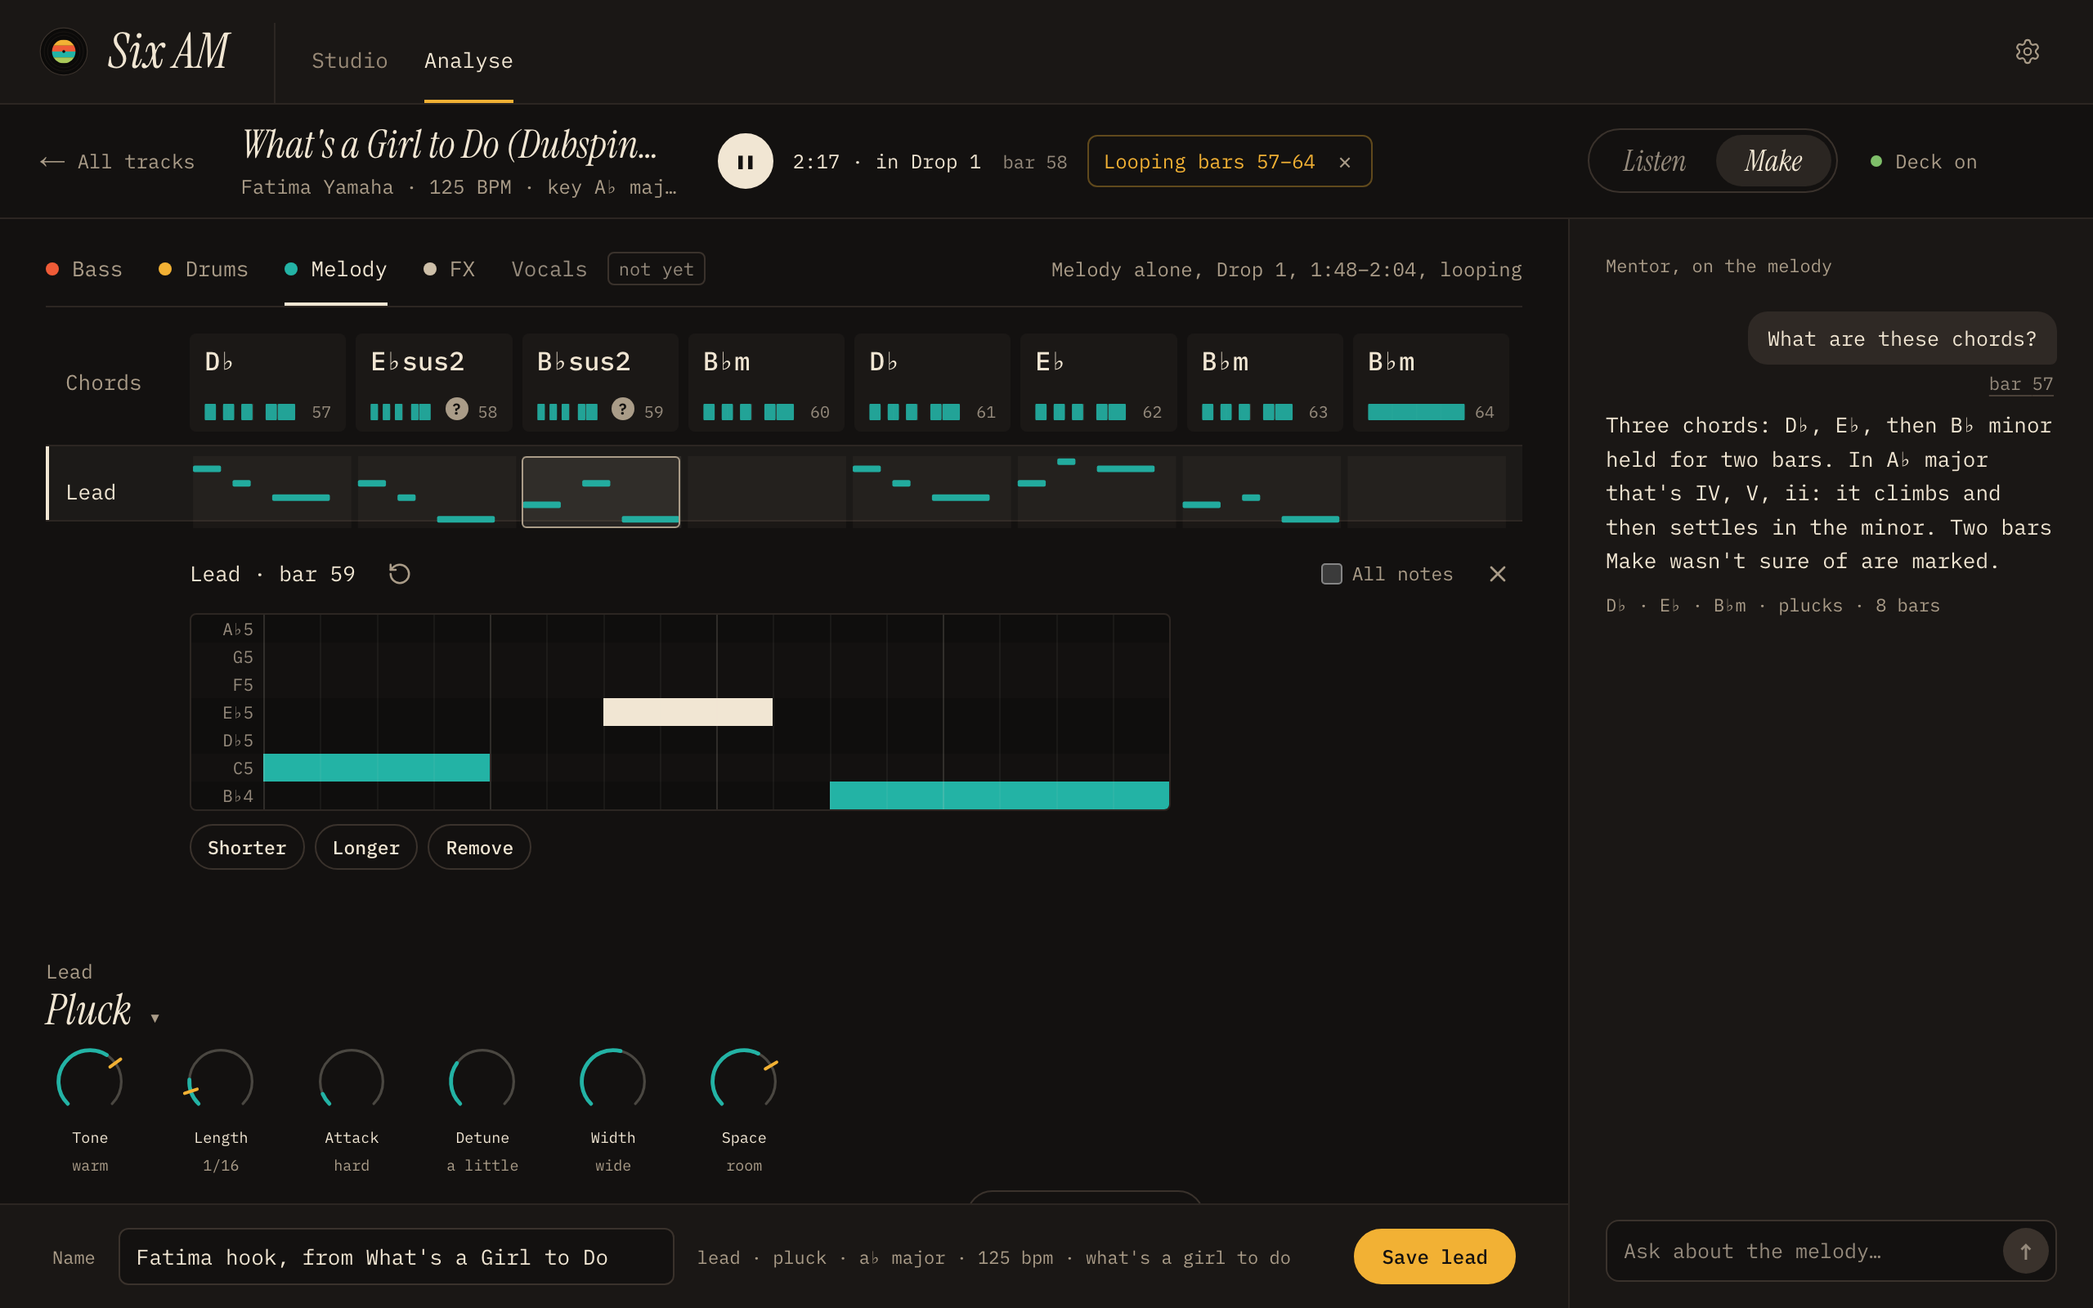
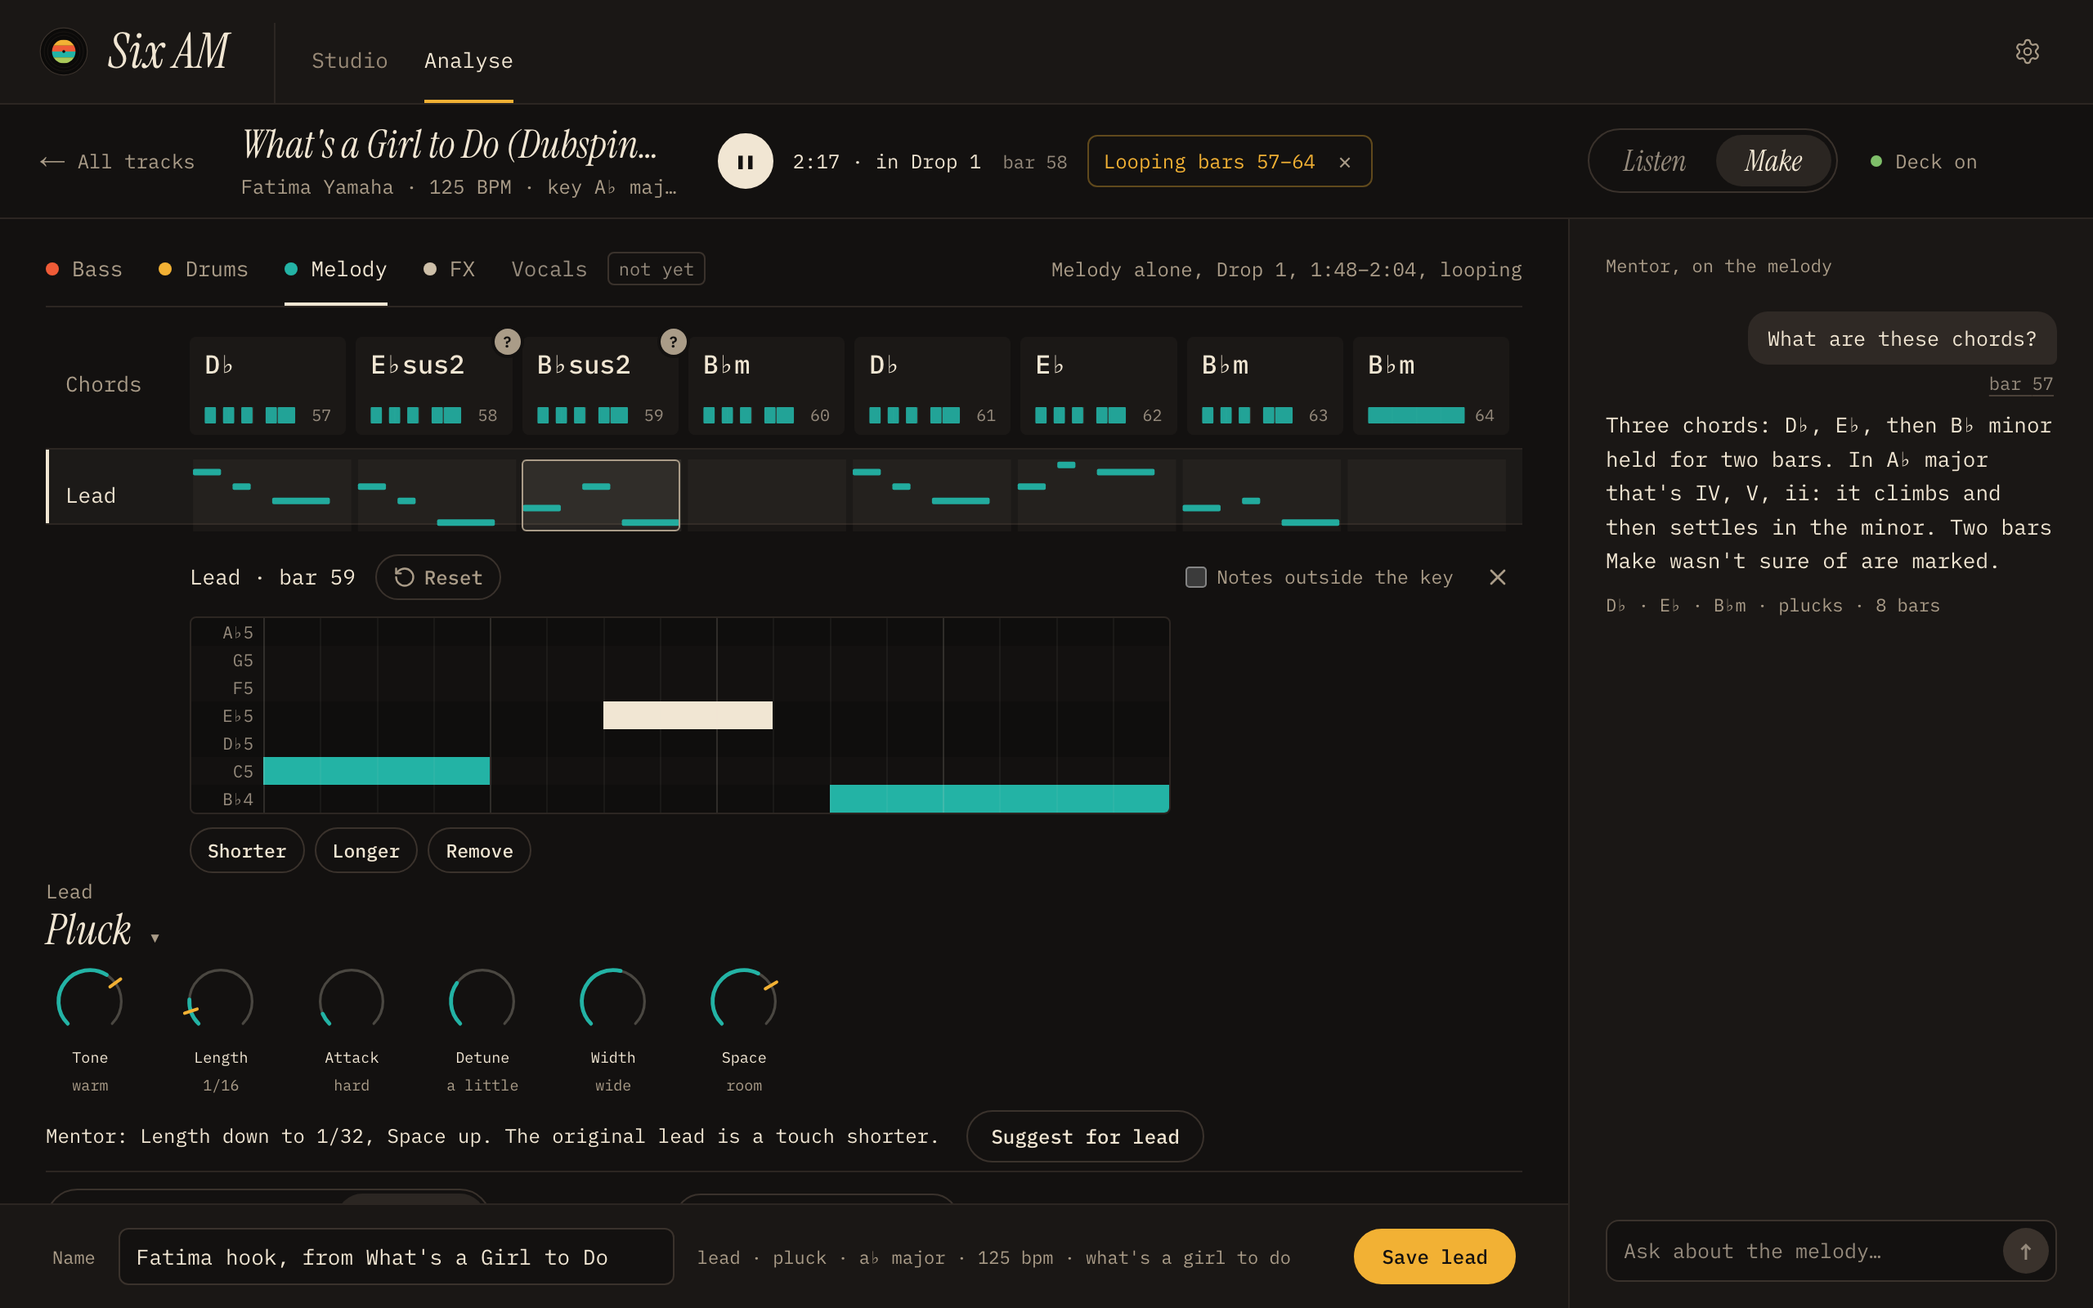
07 Six AM Phase 6: chords round 5, labels back

diff --git a/apps/07-six-am/src/app/dev/chords-r4/ear.tsx b/apps/07-six-am/src/app/dev/chords-r4/ear.tsx
@@ -1,11 +1,12 @@
 "use client";
 
+// Round 5 (in r4): labels that say what things are are back, sentences on how to operate stay out.
 // Round 4 · Ear, simplified until it explains itself (owner on the canvas: a screen that needs "tap a bar
 // to…" isn't intuitive enough). The panel is never empty: the first bar Make isn't sure of is open (else
 // bar 1). Cards work like a GarageBand chord strip: tap = hear it in the loop and use it; tap another to
 // change your mind. The track is a reference button, not a choice. Words moved to aria-labels/tooltips.
 import { useEffect, useState } from "react";
-import { ArrowLeft, AudioWaveform, Check, Keyboard, Pause, Play, RotateCcw, X } from "lucide-react";
+import { ArrowLeft, AudioWaveform, Check, Pause, Piano, Play, RotateCcw, X } from "lucide-react";
 import { DUB, LOST, WORST, voicing, type Song } from "../chords-directions/data";
 import { Hits, LeadRoll, Shell, cx, s, useChords } from "../chords-directions/shared";
 import v from "../chords-directions/v.module.css";
@@ -39,14 +40,15 @@ export function Ear({ st }: { st: St }) {
   const [leadSel, setLeadSel] = useState<number | null>(st === "lead" ? 1 : null);
   useEffect(() => {
     if (!open) return;
-    const esc = (e: KeyboardEvent) => { if (e.key === "Escape") setOpen(null); };
+    const esc = (e: KeyboardEvent) => { if (e.key !== "Escape") return; if (open.kind === "lead") setOpen({ kind: "chord", bar: firstBar(song) }); else setKeys(false); };
     addEventListener("keydown", esc);
     return () => removeEventListener("keydown", esc);
-  }, [open]);
+  }, [open, song]);
 
-  const close = () => { setOpen(null); setKeys(false); setHear(null); setMore(false); setHit(null); };
+  // The chord panel is always open; the lead's × goes back to it.
+  const close = () => { setOpen({ kind: "chord", bar: firstBar(song) }); setKeys(false); setHear(null); setMore(false); setHit(null); };
   const openBar = (kind: "chord" | "lead", bar: number) => {
-    if (open && open.kind === kind && open.bar === bar) return close();
+    if (open && open.kind === kind && open.bar === bar) return kind === "lead" ? close() : undefined;
     setOpen({ kind, bar }); setKeys(false); setHear(null); setMore(false); setHit(null); setLeadSel(null);
   };
   const unsure = (i: number) => !!song.bars[i].doubt && !ch.isEdited(i);
@@ -58,10 +60,11 @@ export function Ear({ st }: { st: St }) {
         <span className={v.rowName}>Chords</span>
         <div className={r.tiles} data-many={song.bars.length > 8 ? "" : undefined}>
           {song.bars.map((_, i) => (
-            <button key={i} className={r.tile} aria-expanded={open?.kind === "chord" && open.bar === i}
+            <button key={i} className={r.tile} data-unsure={unsure(i) ? "" : undefined} aria-expanded={open?.kind === "chord" && open.bar === i}
               aria-label={`Bar ${song.from + i}: ${ch.nameOf(i)}${unsure(i) ? ", Make isn't sure" : ""}. Change chord`} onClick={() => openBar("chord", i)}>
               <span className={r.tileName}>{ch.nameOf(i)}</span>
-              <span className={r.tileFoot}><Hits hits={ch.hits[i]} />{unsure(i) && <span className={r.unsureMark} title="Make isn't sure of this bar" aria-hidden>?</span>}<small>{song.from + i}</small></span>
+              {unsure(i) && <span className={r.unsureMark} title="Make isn't sure of this bar" aria-hidden>?</span>}
+              <span className={r.tileFoot}><Hits hits={ch.hits[i]} /><small>{song.from + i}</small></span>
             </button>
           ))}
         </div>
@@ -73,7 +76,7 @@ export function Ear({ st }: { st: St }) {
             onNotes={(ns) => setLead((l) => l.map((x, b) => (b === open.bar ? ns : x)))}
             onReset={() => { setLead((l) => l.map((x, b) => (b === open.bar ? (song.lead ?? []).filter((n) => n.bar === b).map(({ at, len, midi }) => ({ at, len, midi })) : x))); setLeadSel(null); }} onClose={close} />
         ) : (
-          <ChordPanel song={song} ch={ch} i={open.bar} keys={keys} setKeys={setKeys} hear={hear} setHear={setHear} all={all} setAll={setAll} more={more} setMore={setMore} hit={hit} setHit={setHit} onClose={close} />
+          <ChordPanel song={song} ch={ch} i={open.bar} keys={keys} setKeys={setKeys} hear={hear} setHear={setHear} all={all} setAll={setAll} more={more} setMore={setMore} hit={hit} setHit={setHit} />
         )}
       </div>
     </Shell>
@@ -111,9 +114,9 @@ function IconBtn({ label, onClick, children, tip }: { label: string; onClick: ()
   return <button className={r.icon} onClick={onClick} aria-label={label} title={tip ?? label}>{children}</button>;
 }
 
-function ChordPanel({ song, ch, i, keys, setKeys, hear, setHear, all, setAll, more, setMore, hit, setHit, onClose }: {
+function ChordPanel({ song, ch, i, keys, setKeys, hear, setHear, all, setAll, more, setMore, hit, setHit }: {
   song: Song; ch: Ch; i: number; keys: boolean; setKeys: (b: boolean) => void; hear: string | null; setHear: (n: string | null) => void;
-  all: boolean; setAll: (b: boolean) => void; more: boolean; setMore: (b: boolean) => void; hit: number | null; setHit: (k: number | null) => void; onClose: () => void;
+  all: boolean; setAll: (b: boolean) => void; more: boolean; setMore: (b: boolean) => void; hit: number | null; setHit: (k: number | null) => void;
 }) {
   const b = song.bars[i], cur = ch.nameOf(i), notes = ch.notesOf(i), hits = ch.hits[i];
   const twins = song.bars.map((_, k) => k).filter((k) => k !== i && song.bars[k].read === b.read);
@@ -126,10 +129,14 @@ function ChordPanel({ song, ch, i, keys, setKeys, hear, setHear, all, setAll, mo
     const chosen = cur === n && !fromNotes, playing = hear === n, guess = n === b.read;
     return (
       <button key={n} className={r.choice} aria-pressed={chosen} data-playing={playing ? "" : undefined} onClick={() => choose(n)}
-        aria-label={`${n}${guess ? ", Make's guess" : ""}, ${flavour(n) || "a chord"}${chosen ? ", in Mine" : ""}. Hear it in the loop and use it`} title={guess ? "Make's guess" : undefined}>
-        <span className={r.choiceName}>{n}</span>
-        {guess && <i className={r.guessDot} aria-hidden />}
-        {chosen && <Check className={r.check} size={14} strokeWidth={2.5} aria-hidden />}
+        aria-label={`${n}${guess ? ", Make's guess" : ""}, ${flavour(n) || "a chord"}${chosen ? ", in Mine" : ""}. Hear it in the loop and use it`}>
+        <span className={r.glyph} aria-hidden>{playing ? <Pause size={13} /> : <Play size={13} />}</span>
+        <span className={r.choiceText}>
+          {guess && <small className={r.guessTag}>Make&apos;s guess</small>}
+          <span className={r.choiceName}>{n}</span>
+          <small>{flavour(n)}</small>
+        </span>
+        {chosen && <Check className={r.check} size={15} strokeWidth={2.5} aria-hidden />}
       </button>
     );
   };
@@ -137,10 +144,8 @@ function ChordPanel({ song, ch, i, keys, setKeys, hear, setHear, all, setAll, mo
     <div className={r.head}>
       {keys && <IconBtn label="Back to the chords" tip="Back" onClick={() => { setKeys(false); setHit(null); }}><ArrowLeft size={16} /></IconBtn>}
       <span className={r.where}>Bar {song.from + i}</span>
-      {keys && <b className={r.title}>{cur}</b>}
-      {keys && (fromNotes || ch.isEdited(i)) && <IconBtn label={`Back to Make's ${b.read}`} onClick={() => { ch.reset(i); setHit(null); }}><RotateCcw size={15} /></IconBtn>}
-      <span className={r.grow} />
-      <IconBtn label="Close" onClick={onClose}><X size={16} /></IconBtn>
+      {keys ? <b className={r.title}>{cur}</b> : <b className={r.ask}>Which one sounds like the track?</b>}
+      {keys && (fromNotes || ch.isEdited(i)) && <button className={r.reset} onClick={() => { ch.reset(i); setHit(null); }} aria-label={`Reset to Make's ${b.read}`} title={`Back to Make's ${b.read}`}><RotateCcw size={14} aria-hidden /> Reset</button>}
     </div>
   );
   if (keys) {
@@ -167,10 +172,10 @@ function ChordPanel({ song, ch, i, keys, setKeys, hear, setHear, all, setAll, mo
         <div className={r.choices} role="group" aria-label="Chords to try">{[...cands, ...extra].map(card)}</div>
       </div>
       <div className={r.tools}>
-        {twins.length > 0 && <button className={r.chip} aria-pressed={all} onClick={() => setAll(!all)} aria-label={`Change all ${twins.length + 1} ${b.read} bars together`} title={`All ${twins.length + 1} bars Make heard as ${b.read}`}>All {twins.length + 1} bars</button>}
+        {twins.length > 0 && <label className={r.check2} title={`Every bar Make heard as ${b.read} changes with this one`}><input type="checkbox" checked={all} onChange={(e) => setAll(e.target.checked)} /> {twins.length === 1 ? `Both ${b.read} bars` : `All ${twins.length + 1} ${b.read} bars`}</label>}
         <span className={r.grow} />
-        <button className={r.chip} aria-expanded={more} onClick={() => setMore(!more)} aria-label={more ? "Fewer chords" : "More chords that fit this song"}>{more ? "Less" : "More"}</button>
-        <button className={r.chip} onClick={() => setKeys(true)} aria-label="Build the chord on the keys"><Keyboard size={15} aria-hidden /> Keys</button>
+        <button className={r.chip} aria-expanded={more} onClick={() => setMore(!more)} aria-label={more ? "Fewer chords" : "More chords that fit this song"}>{more ? "Fewer chords" : "More chords"}</button>
+        <button className={r.chip} onClick={() => setKeys(true)} aria-label="Build the chord on a piano"><Piano size={15} aria-hidden /> Piano</button>
       </div>
     </section>
   );
@@ -193,9 +198,9 @@ function LeadPanel({ song, bar, notes, sel, onSel, onNotes, onReset, onClose }: 
     <section className={cx(r.panel, r.leadPanel)} aria-label={`Lead, bar ${song.from + bar}: place one note at a time`}>
       <div className={r.head}>
         <span className={r.where}>Lead · bar {song.from + bar}</span>
-        {edited && <IconBtn label="Back to Make's line" onClick={onReset}><RotateCcw size={15} /></IconBtn>}
+        {edited && <button className={r.reset} onClick={onReset} aria-label="Reset to Make's line" title="Back to Make's line"><RotateCcw size={14} aria-hidden /> Reset</button>}
         <span className={r.grow} />
-        <label className={r.quietSwitch} title="Show every note, not only the song's key"><input type="checkbox" checked={allNotes} onChange={(e) => setAllNotes(e.target.checked)} disabled={outside} /> All notes</label>
+        <label className={r.quietSwitch} title="Show the notes that aren't in the song's key too"><input type="checkbox" checked={allNotes} onChange={(e) => setAllNotes(e.target.checked)} disabled={outside} /> Notes outside the key</label>
         <IconBtn label="Close" onClick={onClose}><X size={16} /></IconBtn>
       </div>
       <LeadGrid notes={notes} rows={rows} flats={song.flats} sel={sel} onSel={onSel} onNotes={onNotes} tall={!allNotes} />

diff --git a/apps/07-six-am/src/app/dev/chords-r4/r.module.css b/apps/07-six-am/src/app/dev/chords-r4/r.module.css
@@ -209,3 +209,45 @@
 }
 /* break-ui: the "?" sits in the tile's foot beside the bar number, so it never covers a long name */
 .unsureMark { position: static; flex: none; width: 14px; height: 14px; font-size: 9.5px; }
+
+/* ── Round 5: labels that name things are back ─────────────────────────────────────────────── */
+.unsureMark { position: absolute; top: 5px; right: 5px; width: 15px; height: 15px; font-size: 9.5px; }
+.tile:has(.unsureMark) .tileName { padding-right: 15px; }
+.choice { height: 64px; gap: 10px; padding: 0 12px 0 10px; align-items: center; }
+.glyph { flex: none; width: 26px; height: 26px; border-radius: 50%; border: 1px solid var(--edge); display: grid; place-items: center; color: var(--ink); }
+.choice[data-playing] .glyph { background: var(--ink); color: var(--bg); border-color: var(--ink); }
+.choice[data-playing] { box-shadow: none; }
+.choiceText { display: flex; flex-direction: column; gap: 2px; min-width: 0; }
+.choiceText .choiceName { font-size: 17px; }
+.choiceText small { font-size: 11px; color: var(--muted); line-height: 1.25; }
+.guessTag { position: absolute; top: 6px; right: 9px; font-size: 10px; color: var(--muted); white-space: nowrap; }
+.choices { grid-template-columns: repeat(auto-fill, minmax(150px, 1fr)); }
+.track { height: 64px; }
+.check { right: 9px; bottom: 8px; }
+.reset { display: inline-flex; align-items: center; gap: 5px; min-height: 28px; padding: 0 10px; border: 1px solid var(--edge); border-radius: 99px; background: none; cursor: pointer; font: 500 12px var(--f-mono); color: var(--muted) !important; }
+@media (hover: hover) and (pointer: fine) { .reset:hover { color: var(--ink) !important; border-color: var(--muted); } }
+.check2 { display: inline-flex; align-items: center; gap: 8px; min-height: 30px; font-size: 12.5px; color: var(--ink); cursor: pointer; }
+.check2 input { accent-color: var(--teal); width: 16px; height: 16px; margin: 0; }
+/* the band fits the panel that is shown (listening is short, piano and lead are taller) */
+.band { height: auto; min-height: 0; }
+@media (max-width: 700px) {
+  .choices { grid-template-columns: repeat(2, minmax(0, 1fr)); }
+  .ask { font-size: 19px; }
+}
+/* break-ui (phone): the "?" corner never covers the name, nor "Make's guess" or the ✓ the card's words */
+.tile[data-unsure] { border: 1px solid transparent; }
+.tile[aria-expanded="true"][data-unsure] { border-color: var(--ink); }
+.tile[data-unsure] .tileName { padding-right: 0; display: block; max-width: calc(100% - 15px); font-size: min(16px, calc((100cqi - 15px) / 4.4)); }
+.choiceText { padding-right: 16px; }
+.choiceText .guessTag { position: absolute; top: 6px; right: 9px; }
+@media (max-width: 700px) {
+  .choice { height: auto; min-height: 64px; padding-top: 8px; padding-bottom: 8px; }
+  .choiceText .guessTag { position: static; order: -1; margin-bottom: 1px; }
+}
+/* break-ui, second pass: the "?" sits on the tile's corner edge, so the name keeps its full width;
+   "Make's guess" is a line above the name (top-right it covered long names like C♯sus4) */
+.tile[data-unsure] .tileName { max-width: none; font-size: min(16px, calc(100cqi / 4.4)); }
+.unsureMark { top: -6px; right: -6px; width: 16px; height: 16px; box-shadow: 0 0 0 2px var(--bg); z-index: 1; }
+.tiles { padding-top: 10px; }
+.choiceText .guessTag { position: static; margin-bottom: 1px; }
+.choice { height: 72px; }

diff --git a/docs/products/07-six-am/decisions.md b/docs/products/07-six-am/decisions.md
@@ -433,3 +433,4 @@ Every decision except ops (decision 0026): L-numbers for learning decisions, T-n
 | T164 | 2026-11-26 | Cards about a third shorter (74 px): play + name + "Make's guess" on the top line, mood + "Use this" (76 × 26 px) pinned to the bottom. Keys: head keeps "Back to listening" only; one undo ("Back to Make's B♭sus2") under the keys. Timing: Short hits / Held are presets that redraw the strip, neither lit after a hand edit; beats 1–4 under the strip | designer | Phase 6 polish | |
 | T165 | 2026-11-26 | Lead grid shows the song key's 7 notes by default (rows twice as tall), with a quiet "All notes" switch for the owner's own touch (on, and locked on, when the bar already holds a note outside the key); Shorter / Longer / Remove in one row under the grid, "Back to Make's line" beside them. Shortcut: key notes from a small major-key table in the prototype | designer | Phase 6 polish | |
 | T166 | 2026-11-26 | Chords round 4 (L262, `/dev/chords-r4`, shots `design/chords-r4/`): hint sentences, headings, mood words, Use this, dashed edge and text links removed (kept in aria-labels and tooltips); a bar is always open (first unsure); tap a card = hear + use (teal ✓; grey dot = Make's guess); Track is a dark reference pill; '?' in an unsure tile's foot; chips All N bars (on by default), More, Keys; icon buttons ← ↺ ×. Chord-area words 47–108 → 32–48 per state | designer | Phase 6 round 4 | |
+| T167 | 2026-11-26 | Chords round 5 (critic r4 7/10): labels back, instructions stay out. ▶/❚❚ on every card, mood line, 'Which one sounds like the track?', 'Make's guess' above the name, checkbox 'All 8 G bars', chips 'More chords' and 'Piano', 'Notes outside the key', '↺ Reset' after an edit; × gone from the always-open chord panel (one way out per view); '?' on the tile's corner edge; the band fits the shown panel (knobs move only on entering Piano or Lead) | designer | Phase 6 round 5 | |

diff --git a/docs/products/07-six-am/journal.md b/docs/products/07-six-am/journal.md
@@ -826,3 +826,4 @@ Written into the shared pages at the Ears + Mentor wrap-up (24 Oct), in one comm
 - **Test plan for Phase 6 (discovery):** persona and plan updated (C6-S1..S4, stuck points recorded without hints). PM calls on its gaps: 'plays a little piano' is the owner's own words in chat; H14 counts from the tap on the wrong bar to Mine holding the right chord; the planted wrong chord is Make's own misread on Lost 69–76 (G for G7), else a dev-only plant; chord names stay on the cards in r4, so H14 is measurable; the live Mentor answer stays in the owner's final review (limit until 1 Dec), slice 3 tests the path and H12 facts; slice 4 uses the graded lead loops (Mason Flint 17–24, Dubspinna 105–112), with a seed export added if needed.
 - **Round 4, simpler (designer):** every cut on the L262 list applied; chord-area words down to 32–48 per state (from 47–108), the rest is data (names, bars, notes). Next: the same critic re-scores.
 - **Round 4 scored 7/10 by the same critic** (clutter 1 · hierarchy 1 · legibility 2 · feel 2 · copy 1; −1): the cut went too far. Remove sentences that say how to operate the screen, keep labels that say what each thing is. Round 5 restores the task question, mood words, 'Make's guess', play glyphs on cards and nouns on chips; drops × and the dot; '?' to the corner; closes the empty band.
+- **Round 5 (designer, T167):** labels that say what things are restored, no how-to sentences; chord-area words 36–63. Next: the critic's last pass.
